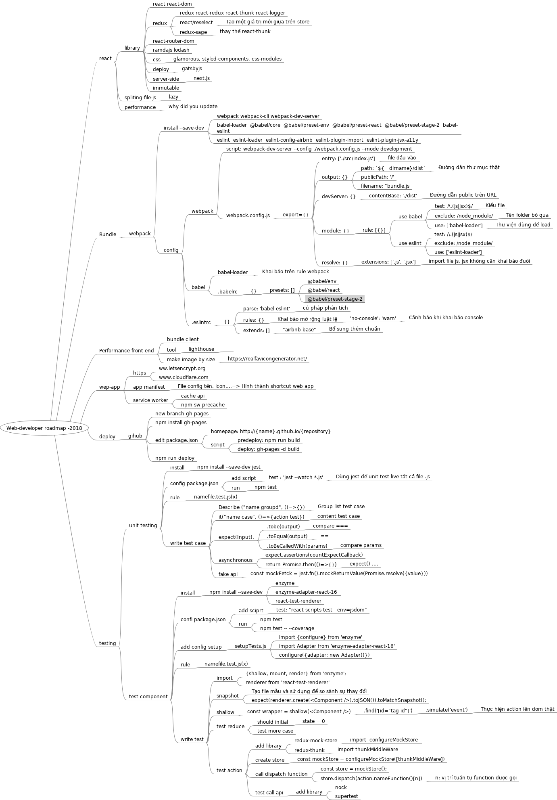
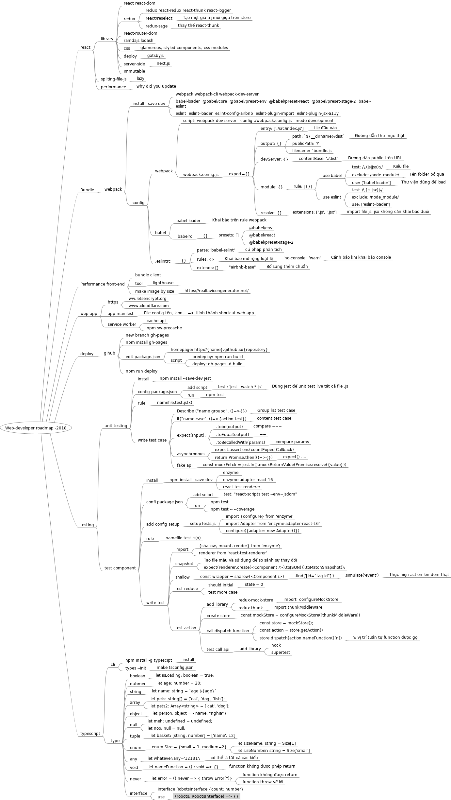
update

diff --git a/website/Web-developer roadmap -2018.mm b/website/Web-developer roadmap -2018.mm
@@ -274,6 +274,7 @@
 </node>
 <node CREATED="1563234595583" ID="ID_1998605462" MODIFIED="1563234614736" TEXT="call dispatch function">
 <node CREATED="1563234617723" ID="ID_1707080088" MODIFIED="1563234635776" TEXT="const store = mockStore();"/>
+<node CREATED="1563295904799" ID="ID_417319986" MODIFIED="1563295921987" TEXT="const action = store.getAction()"/>
 <node CREATED="1563234636179" ID="ID_511608243" MODIFIED="1563234685920" TEXT="store.dispatch(action.nameFunction()[n])">
 <node CREATED="1563234687288" ID="ID_1509091128" MODIFIED="1563234717833" TEXT="n: v&#x1ecb; tr&#xed; tu&#x1ea7;n t&#x1ef1; function &#x111;&#x1b0;&#x1ee3;c g&#x1ecd;i"/>
 </node>
@@ -284,6 +285,69 @@
 <node CREATED="1563234794205" ID="ID_1668365897" MODIFIED="1563234814105" TEXT="supertest"/>
 </node>
 </node>
+</node>
+</node>
+</node>
+</node>
+<node CREATED="1563467702170" ID="ID_1893744197" MODIFIED="1563467785310" POSITION="right" TEXT="typescript">
+<node CREATED="1563467786115" ID="ID_1980532452" MODIFIED="1563467815642" TEXT="cli">
+<node CREATED="1563467789753" ID="ID_617826799" MODIFIED="1563467799249" TEXT="npm install -g typescipt">
+<node CREATED="1563467818628" ID="ID_1297932879" MODIFIED="1563467821607" TEXT="install"/>
+</node>
+<node CREATED="1563467823499" ID="ID_302982622" MODIFIED="1563468934451" TEXT="types --init">
+<node CREATED="1563469021920" ID="ID_1862011359" MODIFIED="1563469045679" TEXT="make tsconfig.json"/>
+</node>
+</node>
+<node CREATED="1563469290038" ID="ID_1579476263" MODIFIED="1563469344116" TEXT="type">
+<node CREATED="1563469344073" ID="ID_1021496407" MODIFIED="1563469349514" TEXT="boolean">
+<node CREATED="1563469298721" ID="ID_1191430062" MODIFIED="1563469314033" TEXT="let isLoading: boolean = true;"/>
+</node>
+<node CREATED="1563469314940" ID="ID_1857860633" MODIFIED="1563469320388" TEXT="nubmer ">
+<node CREATED="1563469321485" ID="ID_1077419945" MODIFIED="1563469336606" TEXT="let age: number = 20;"/>
+</node>
+<node CREATED="1563469338027" ID="ID_1762983743" MODIFIED="1563469354081" TEXT="string">
+<node CREATED="1563469354566" ID="ID_1635629390" MODIFIED="1563469381867" TEXT="let name: string = `age ${age}`"/>
+</node>
+<node CREATED="1563469384052" ID="ID_594488810" MODIFIED="1563469388695" TEXT="array">
+<node CREATED="1563469390947" ID="ID_1377909193" MODIFIED="1563469425606" TEXT="let pets: string[] = [&apos;cat&apos;, &apos;dog&apos;, &apos;fish&apos;];"/>
+<node CREATED="1563469426372" ID="ID_1197212382" MODIFIED="1563469472650" TEXT="let pets2: Array&lt;string&gt; = [&apos;cat&apos;, &apos;dog&apos;];"/>
+</node>
+<node CREATED="1563469474341" ID="ID_1472722000" MODIFIED="1563469476746" TEXT="object">
+<node CREATED="1563469501219" ID="ID_1387027724" MODIFIED="1563469523008" TEXT="let person: object = {name: &quot;nghia&quot;}"/>
+</node>
+<node CREATED="1563469524618" ID="ID_148167345" MODIFIED="1563469535411" TEXT="null">
+<node CREATED="1563469535852" ID="ID_442354668" MODIFIED="1563469549827" TEXT="let meh: undefined = undefined;"/>
+<node CREATED="1563469550091" ID="ID_1723359378" MODIFIED="1563469562959" TEXT="let noo: null = null;"/>
+</node>
+<node CREATED="1563469564056" ID="ID_1980476294" MODIFIED="1563469584394" TEXT="tuple">
+<node CREATED="1563469585000" ID="ID_352047358" MODIFIED="1563469614760" TEXT="let basket: [string, number] = [&apos;name&apos;, 12]"/>
+</node>
+<node CREATED="1563469621974" ID="ID_1722080910" MODIFIED="1563469632504" TEXT="enum">
+<node CREATED="1563469634140" ID="ID_1264069394" MODIFIED="1563469689674" TEXT="enum Size = {small = 1, medium=2}">
+<node CREATED="1563469662380" ID="ID_514182394" MODIFIED="1563469703481" TEXT="let sizeName: string = Size[1]"/>
+<node CREATED="1563469704709" ID="ID_982166019" MODIFIED="1563469745581" TEXT="let sizeNumber: string = Size[&apos;small&apos;]"/>
+</node>
+</node>
+<node CREATED="1563470304557" ID="ID_1631102929" MODIFIED="1563470309450" TEXT="any">
+<node CREATED="1563470311438" ID="ID_1808237413" MODIFIED="1563470334396" TEXT="let whatever:any=&apos;12131&apos;;">
+<node CREATED="1563470335331" ID="ID_329802352" MODIFIED="1563470356715" TEXT="c&#xf3; th&#x1ec3; l&#xe0; t&#x1ea5;t c&#x1ea3; c&#xe1;c ki&#x1ec3;u"/>
+</node>
+</node>
+<node CREATED="1563470360159" ID="ID_1011658074" MODIFIED="1563470364321" TEXT="void">
+<node CREATED="1563470365454" ID="ID_888026105" MODIFIED="1563470384205" TEXT="let nameFunction = () : void =&gt; {}">
+<node CREATED="1563470384210" ID="ID_1978481539" MODIFIED="1563470395614" TEXT="function kh&#xf4;ng &#x111;&#x1b0;&#x1ee3;c ph&#xe9;p return"/>
+</node>
+</node>
+<node CREATED="1563470404152" ID="ID_1143834339" MODIFIED="1563470410486" TEXT="never">
+<node CREATED="1563470411848" ID="ID_1071657337" MODIFIED="1563470445839" TEXT="let error = ():never =&gt; { throw Error(&apos;&apos;)}">
+<node CREATED="1563470447945" ID="ID_754048574" MODIFIED="1563470465888" TEXT="function kh&#xf4;ng &#x111;&#x1b0;&#x1ee3;c return"/>
+<node CREATED="1563470466443" ID="ID_1462551550" MODIFIED="1563470501446" TEXT="function throw v&#x1ec1; l&#x1ed7;i"/>
+</node>
+</node>
+<node CREATED="1563923795687" ID="ID_64944151" MODIFIED="1563923800651" TEXT="interface">
+<node CREATED="1563923801625" ID="ID_1709552127" MODIFIED="1563923927474" TEXT="interface RobotsInterface {count: number}"/>
+<node CREATED="1563923878690" ID="ID_1704426097" MODIFIED="1563923884772" TEXT="use">
+<node CREATED="1563923886109" ID="ID_527883024" MODIFIED="1563924421155" TEXT="(robots: RobotsInterface) =&gt; {}"/>
 </node>
 </node>
 </node>
